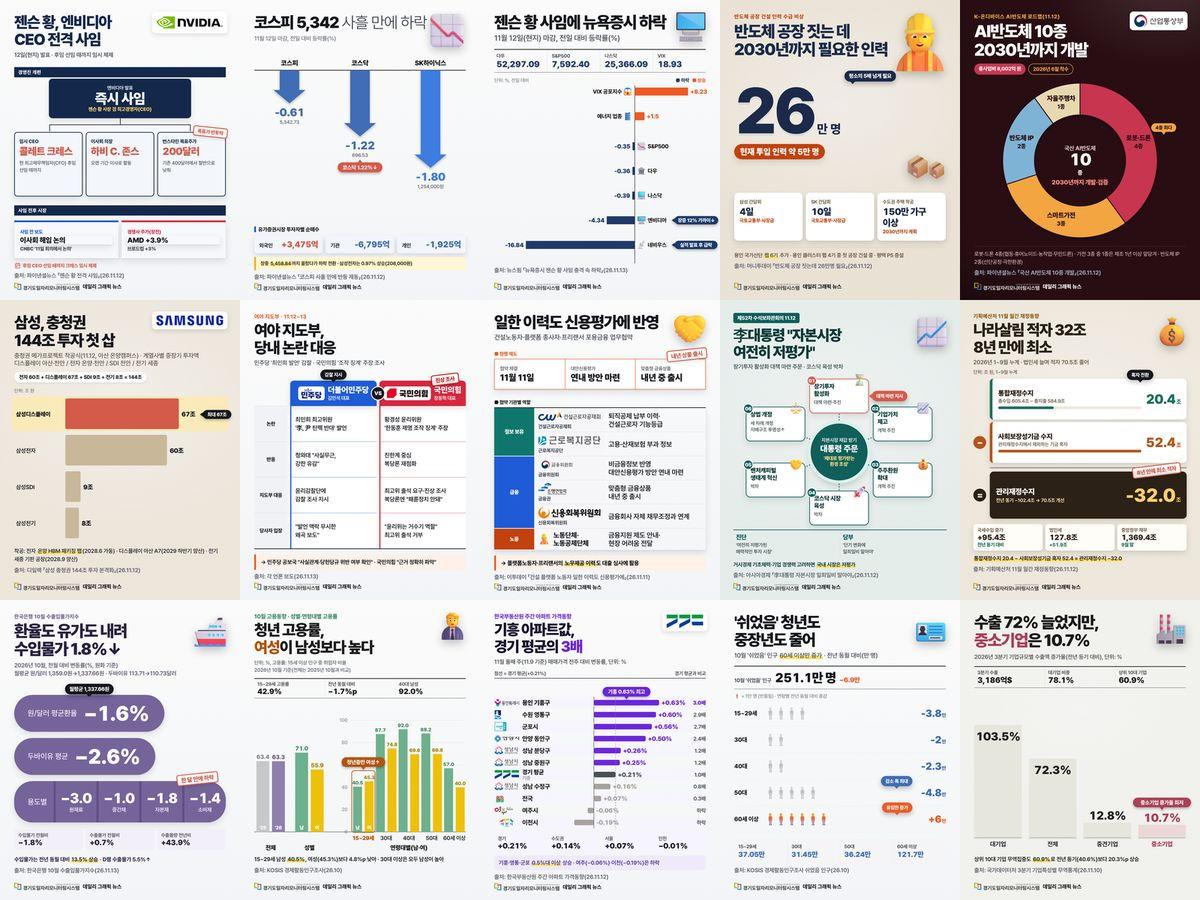
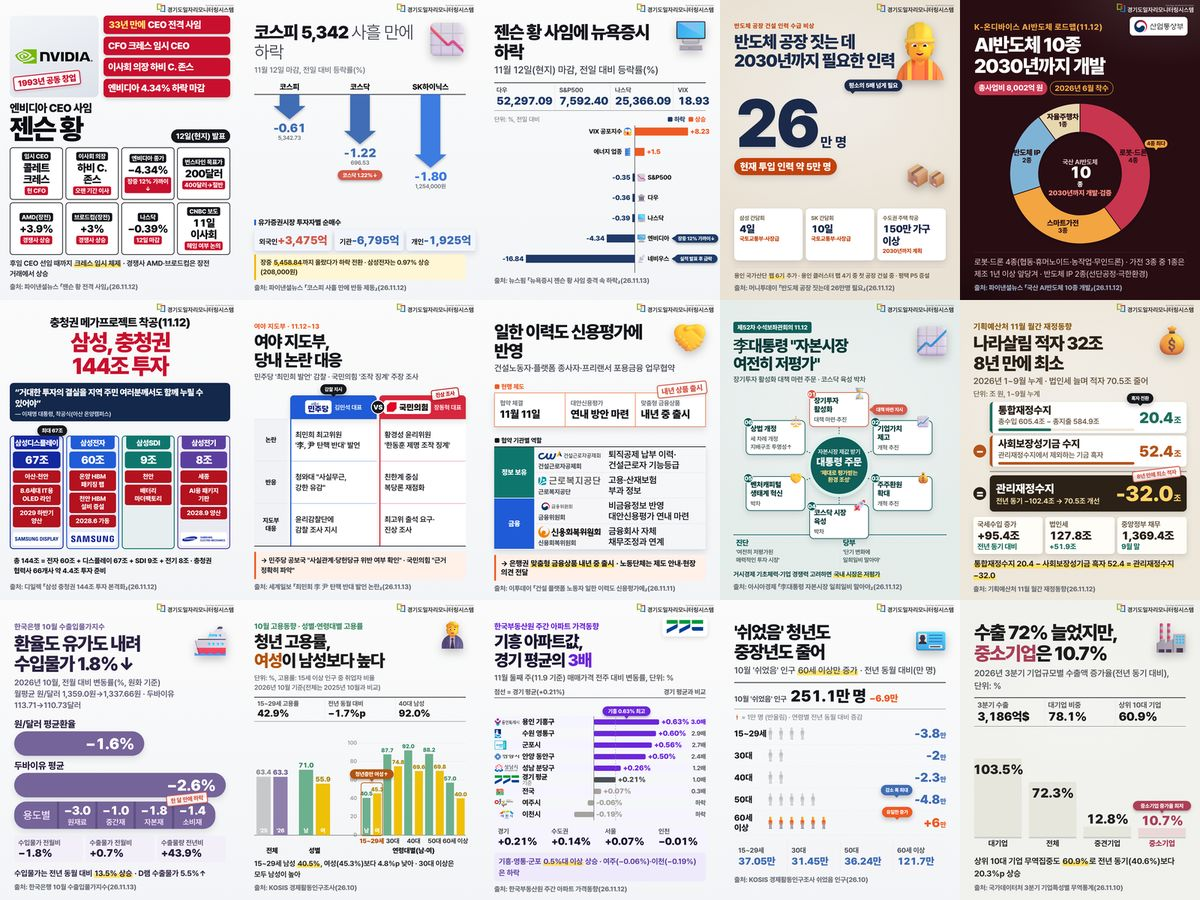
261113 웹페이지 수정: 카드 클릭 확대 기능, 카드별 이미지·미리보기 갱신
Claude-Session: https://claude.ai/code/session_015uJhCPYxhXu45H4AYmxR3L

diff --git a/daily/2026-11-13/index.html b/daily/2026-11-13/index.html
@@ -1,21 +1,21 @@
 <!doctype html><html lang="ko"><head><meta charset="utf-8"><meta name="viewport" content="width=device-width,initial-scale=1"><title>11.13.(금) 데일리 그래픽뉴스 | 경기도일자리모니터링시스템</title>
 <meta property="og:title" content="11.13.(금) 데일리 그래픽뉴스 | 경기도일자리모니터링시스템"><meta property="og:description" content="오늘의 일자리·경제 뉴스·통계 15건, 제목과 출처를 확인하세요"><meta property="og:image" content="https://gjfdata.github.io/daily/2026-11-13/preview.jpg"><meta property="og:url" content="https://gjfdata.github.io/daily/2026-11-13/"><meta property="og:type" content="website"><meta name="description" content="오늘의 일자리·경제 뉴스·통계 15건, 제목과 출처를 확인하세요">
 <link rel="stylesheet" href="https://cdn.jsdelivr.net/gh/orioncactus/pretendard@v1.3.9/dist/web/static/pretendard.css"><link rel="stylesheet" href="../../assets/style.css"></head><body><div class="w"><img class="ci" src="../../assets/ci.png" alt="경기도일자리모니터링시스템"><h1>11.13.(금) 데일리 그래픽뉴스</h1><p class="sub">오늘의 일자리·경제 뉴스·통계 15건</p>
-<img class="pv" src="preview.jpg" alt="11.13 데일리 그래픽뉴스 미리보기"><ol>
-<li><span class="n">01</span><div><b>젠슨 황, 엔비디아 CEO 전격 사임</b><span class="s"><a href="https://www.fnnews.com/news/202611122300110225" target="_blank" rel="noopener">파이낸셜뉴스 「젠슨 황 전격 사임」(26.11.12)</a></span></div></li>
-<li><span class="n">02</span><div><b>코스피 5,342.73, 사흘 만에 하락</b><span class="s"><a href="https://www.fnnews.com/news/202611121539360346" target="_blank" rel="noopener">파이낸셜뉴스 「코스피 사흘 만에 반등 제동」(26.11.12)</a></span></div></li>
-<li><span class="n">03</span><div><b>젠슨 황 사임에 뉴욕증시 하락, 엔비디아 4.34%↓</b><span class="s"><a href="https://www.newspim.com/news/view/20261113000019" target="_blank" rel="noopener">뉴스핌 「뉴욕증시 젠슨 황 사임 충격 속 하락」(26.11.13)</a></span></div></li>
-<li><span class="n">04</span><div><b>반도체 공장 건설에 2030년까지 26만 명 필요</b><span class="s"><a href="https://news.nate.com/view/20261112n29123" target="_blank" rel="noopener">머니투데이 「반도체 공장 짓는데 26만명 필요」(26.11.12)</a></span></div></li>
-<li><span class="n">05</span><div><b>국산 AI반도체 10종 2030년까지 개발(8,002억 원)</b><span class="s"><a href="https://www.fnnews.com/news/202611121345227008" target="_blank" rel="noopener">파이낸셜뉴스 「국산 AI반도체 10종 개발」(26.11.12)</a></span></div></li>
-<li><span class="n">06</span><div><b>삼성, 충청권 144조 투자 첫 삽</b><span class="s"><a href="https://www.thelec.kr/news/articleView.html?idxno=65339" target="_blank" rel="noopener">디일렉 「삼성 충청권 144조 투자 본격화」(26.11.12)</a></span></div></li>
-<li><span class="n">07</span><div><b>여야 지도부, 당내 논란 대응</b><span class="s">각 언론 보도(26.11.13)<br>· <a href="https://www.segye.com/newsView/20261112519590" target="_blank" rel="noopener">더불어민주당: 세계일보 「최민희 李 尹 탄핵 반대 발언 논란 김민석 감찰 지시」(26.11.13)</a><br>· <a href="https://news.nate.com/view/20261113n01091" target="_blank" rel="noopener">국민의힘: 동아일보 「장동혁 한동훈 복당론에 패륜정치 안돼」(26.11.13)</a></span></div></li>
-<li><span class="n">08</span><div><b>건설·플랫폼 노동자 일한 이력도 신용평가에 반영</b><span class="s"><a href="https://www.etoday.co.kr/news/view/2646490" target="_blank" rel="noopener">이투데이 「건설 플랫폼 노동자 일한 이력도 신용평가에」(26.11.11)</a></span></div></li>
-<li><span class="n">09</span><div><b>李대통령 &quot;자본시장 여전히 저평가&quot;, 장기투자 대책 주문</b><span class="s"><a href="https://view.asiae.co.kr/article/2026111215414263430" target="_blank" rel="noopener">아시아경제 「李대통령 자본시장 일희일비 말아야」(26.11.12)</a></span></div></li>
-<li><span class="n">10</span><div><b>1~9월 나라살림 적자 32조, 8년 만에 최소</b><span class="s"><a href="https://news.mtn.co.kr/article/2026111211283746559" target="_blank" rel="noopener">기획예산처 11월 월간 재정동향(26.11.12)</a></span></div></li>
-<li><span class="n">11</span><div><b>환율·유가 내려 10월 수입물가 1.8%↓</b><span class="s"><a href="https://view.asiae.co.kr/article/2026111306105002008" target="_blank" rel="noopener">한국은행 10월 수출입물가지수(26.11.13)</a></span></div></li>
-<li><span class="n">12</span><div><b>청년(15~29세) 고용률, 여성이 남성보다 높다</b><span class="s"><a href="https://kosis.kr/statHtml/statHtml.do?orgId=101&amp;tblId=DT_1DA7012S" target="_blank" rel="noopener">KOSIS 경제활동인구조사(26.10)</a></span></div></li>
-<li><span class="n">13</span><div><b>경기 아파트값 0.21%↑, 기흥은 경기 평균의 3배</b><span class="s"><a href="https://www.arunews.com/news/articleView.html?idxno=69466" target="_blank" rel="noopener">한국부동산원 주간 아파트 가격동향(26.11.12)</a></span></div></li>
-<li><span class="n">14</span><div><b>&#x27;쉬었음&#x27; 인구 251.1만 명, 60세 이상만 증가</b><span class="s"><a href="https://kosis.kr/statHtml/statHtml.do?orgId=101&amp;tblId=DT_1DA7147S" target="_blank" rel="noopener">KOSIS 경제활동인구조사 쉬었음 인구(26.10)</a></span></div></li>
-<li><span class="n">15</span><div><b>3분기 수출 72.3%↑, 중소기업은 10.7%</b><span class="s"><a href="https://www.etoday.co.kr/news/view/2646153" target="_blank" rel="noopener">국가데이터처 3분기 기업특성별 무역통계(26.11.10)</a></span></div></li>
+<div class="grid"><button data-card="cards/01.jpg" aria-label="01번 카드 크게 보기"><img src="cards/01.jpg" alt="01번 카드: 젠슨 황, 엔비디아 CEO 전격 사임" loading="lazy"><span>01</span></button><button data-card="cards/02.jpg" aria-label="02번 카드 크게 보기"><img src="cards/02.jpg" alt="02번 카드: 코스피 5,342.73, 사흘 만에 하락" loading="lazy"><span>02</span></button><button data-card="cards/03.jpg" aria-label="03번 카드 크게 보기"><img src="cards/03.jpg" alt="03번 카드: 젠슨 황 사임에 뉴욕증시 하락, 엔비디아 4.34%↓" loading="lazy"><span>03</span></button><button data-card="cards/04.jpg" aria-label="04번 카드 크게 보기"><img src="cards/04.jpg" alt="04번 카드: 반도체 공장 건설에 2030년까지 26만 명 필요" loading="lazy"><span>04</span></button><button data-card="cards/05.jpg" aria-label="05번 카드 크게 보기"><img src="cards/05.jpg" alt="05번 카드: 국산 AI반도체 10종 2030년까지 개발(8,002억 원)" loading="lazy"><span>05</span></button><button data-card="cards/06.jpg" aria-label="06번 카드 크게 보기"><img src="cards/06.jpg" alt="06번 카드: 삼성, 충청권 144조 투자" loading="lazy"><span>06</span></button><button data-card="cards/07.jpg" aria-label="07번 카드 크게 보기"><img src="cards/07.jpg" alt="07번 카드: 여야 지도부, 당내 논란 대응" loading="lazy"><span>07</span></button><button data-card="cards/08.jpg" aria-label="08번 카드 크게 보기"><img src="cards/08.jpg" alt="08번 카드: 건설·플랫폼 노동자 일한 이력도 신용평가에 반영" loading="lazy"><span>08</span></button><button data-card="cards/09.jpg" aria-label="09번 카드 크게 보기"><img src="cards/09.jpg" alt="09번 카드: 李대통령 &quot;자본시장 여전히 저평가&quot;, 장기투자 대책 주문" loading="lazy"><span>09</span></button><button data-card="cards/10.jpg" aria-label="10번 카드 크게 보기"><img src="cards/10.jpg" alt="10번 카드: 1~9월 나라살림 적자 32조, 8년 만에 최소" loading="lazy"><span>10</span></button><button data-card="cards/11.jpg" aria-label="11번 카드 크게 보기"><img src="cards/11.jpg" alt="11번 카드: 환율·유가 내려 10월 수입물가 1.8%↓" loading="lazy"><span>11</span></button><button data-card="cards/12.jpg" aria-label="12번 카드 크게 보기"><img src="cards/12.jpg" alt="12번 카드: 청년(15~29세) 고용률, 여성이 남성보다 높다" loading="lazy"><span>12</span></button><button data-card="cards/13.jpg" aria-label="13번 카드 크게 보기"><img src="cards/13.jpg" alt="13번 카드: 경기 아파트값 0.21%↑, 기흥은 경기 평균의 3배" loading="lazy"><span>13</span></button><button data-card="cards/14.jpg" aria-label="14번 카드 크게 보기"><img src="cards/14.jpg" alt="14번 카드: &#x27;쉬었음&#x27; 인구 251.1만 명, 60세 이상만 증가" loading="lazy"><span>14</span></button><button data-card="cards/15.jpg" aria-label="15번 카드 크게 보기"><img src="cards/15.jpg" alt="15번 카드: 3분기 수출 72.3%↑, 중소기업은 10.7%" loading="lazy"><span>15</span></button></div><p class="hint">카드를 누르면 한 장씩 크게 볼 수 있습니다.</p><ol>
+<li><span class="n"><button data-card="cards/01.jpg" aria-label="01번 카드 크게 보기">01</button></span><div><b>젠슨 황, 엔비디아 CEO 전격 사임</b><span class="s"><a href="https://www.fnnews.com/news/202611122300110225" target="_blank" rel="noopener">파이낸셜뉴스 「젠슨 황 전격 사임」(26.11.12)</a></span></div></li>
+<li><span class="n"><button data-card="cards/02.jpg" aria-label="02번 카드 크게 보기">02</button></span><div><b>코스피 5,342.73, 사흘 만에 하락</b><span class="s"><a href="https://www.fnnews.com/news/202611121539360346" target="_blank" rel="noopener">파이낸셜뉴스 「코스피 사흘 만에 반등 제동」(26.11.12)</a></span></div></li>
+<li><span class="n"><button data-card="cards/03.jpg" aria-label="03번 카드 크게 보기">03</button></span><div><b>젠슨 황 사임에 뉴욕증시 하락, 엔비디아 4.34%↓</b><span class="s"><a href="https://www.newspim.com/news/view/20261113000019" target="_blank" rel="noopener">뉴스핌 「뉴욕증시 젠슨 황 사임 충격 속 하락」(26.11.13)</a></span></div></li>
+<li><span class="n"><button data-card="cards/04.jpg" aria-label="04번 카드 크게 보기">04</button></span><div><b>반도체 공장 건설에 2030년까지 26만 명 필요</b><span class="s"><a href="https://news.nate.com/view/20261112n29123" target="_blank" rel="noopener">머니투데이 「반도체 공장 짓는데 26만명 필요」(26.11.12)</a></span></div></li>
+<li><span class="n"><button data-card="cards/05.jpg" aria-label="05번 카드 크게 보기">05</button></span><div><b>국산 AI반도체 10종 2030년까지 개발(8,002억 원)</b><span class="s"><a href="https://www.fnnews.com/news/202611121345227008" target="_blank" rel="noopener">파이낸셜뉴스 「국산 AI반도체 10종 개발」(26.11.12)</a></span></div></li>
+<li><span class="n"><button data-card="cards/06.jpg" aria-label="06번 카드 크게 보기">06</button></span><div><b>삼성, 충청권 144조 투자</b><span class="s"><a href="https://www.thelec.kr/news/articleView.html?idxno=65339" target="_blank" rel="noopener">디일렉 「삼성 충청권 144조 투자 본격화」(26.11.12)</a></span></div></li>
+<li><span class="n"><button data-card="cards/07.jpg" aria-label="07번 카드 크게 보기">07</button></span><div><b>여야 지도부, 당내 논란 대응</b><span class="s">세계일보 「최민희 李 尹 탄핵 반대 발언 논란」(26.11.13)<br>· <a href="https://www.segye.com/newsView/20261112519590" target="_blank" rel="noopener">더불어민주당: 세계일보 「최민희 李 尹 탄핵 반대 발언 논란 김민석 감찰 지시」(26.11.13)</a><br>· <a href="https://news.nate.com/view/20261113n01091" target="_blank" rel="noopener">국민의힘: 동아일보 「장동혁 한동훈 복당론에 패륜정치 안돼」(26.11.13)</a></span></div></li>
+<li><span class="n"><button data-card="cards/08.jpg" aria-label="08번 카드 크게 보기">08</button></span><div><b>건설·플랫폼 노동자 일한 이력도 신용평가에 반영</b><span class="s"><a href="https://www.etoday.co.kr/news/view/2646490" target="_blank" rel="noopener">이투데이 「건설 플랫폼 노동자 일한 이력도 신용평가에」(26.11.11)</a></span></div></li>
+<li><span class="n"><button data-card="cards/09.jpg" aria-label="09번 카드 크게 보기">09</button></span><div><b>李대통령 &quot;자본시장 여전히 저평가&quot;, 장기투자 대책 주문</b><span class="s"><a href="https://view.asiae.co.kr/article/2026111215414263430" target="_blank" rel="noopener">아시아경제 「李대통령 자본시장 일희일비 말아야」(26.11.12)</a></span></div></li>
+<li><span class="n"><button data-card="cards/10.jpg" aria-label="10번 카드 크게 보기">10</button></span><div><b>1~9월 나라살림 적자 32조, 8년 만에 최소</b><span class="s"><a href="https://news.mtn.co.kr/article/2026111211283746559" target="_blank" rel="noopener">기획예산처 11월 월간 재정동향(26.11.12)</a></span></div></li>
+<li><span class="n"><button data-card="cards/11.jpg" aria-label="11번 카드 크게 보기">11</button></span><div><b>환율·유가 내려 10월 수입물가 1.8%↓</b><span class="s"><a href="https://view.asiae.co.kr/article/2026111306105002008" target="_blank" rel="noopener">한국은행 10월 수출입물가지수(26.11.13)</a></span></div></li>
+<li><span class="n"><button data-card="cards/12.jpg" aria-label="12번 카드 크게 보기">12</button></span><div><b>청년(15~29세) 고용률, 여성이 남성보다 높다</b><span class="s"><a href="https://kosis.kr/statHtml/statHtml.do?orgId=101&amp;tblId=DT_1DA7012S" target="_blank" rel="noopener">KOSIS 경제활동인구조사(26.10)</a></span></div></li>
+<li><span class="n"><button data-card="cards/13.jpg" aria-label="13번 카드 크게 보기">13</button></span><div><b>경기 아파트값 0.21%↑, 기흥은 경기 평균의 3배</b><span class="s"><a href="https://www.arunews.com/news/articleView.html?idxno=69466" target="_blank" rel="noopener">한국부동산원 주간 아파트 가격동향(26.11.12)</a></span></div></li>
+<li><span class="n"><button data-card="cards/14.jpg" aria-label="14번 카드 크게 보기">14</button></span><div><b>&#x27;쉬었음&#x27; 인구 251.1만 명, 60세 이상만 증가</b><span class="s"><a href="https://kosis.kr/statHtml/statHtml.do?orgId=101&amp;tblId=DT_1DA7147S" target="_blank" rel="noopener">KOSIS 경제활동인구조사 쉬었음 인구(26.10)</a></span></div></li>
+<li><span class="n"><button data-card="cards/15.jpg" aria-label="15번 카드 크게 보기">15</button></span><div><b>3분기 수출 72.3%↑, 중소기업은 10.7%</b><span class="s"><a href="https://www.etoday.co.kr/news/view/2646153" target="_blank" rel="noopener">국가데이터처 3분기 기업특성별 무역통계(26.11.10)</a></span></div></li>
 </ol><div class="cta"><div>경기도 31개 시군 일자리 통계는 경기도일자리모니터링시스템에서 확인하세요</div><a class="btn" href="https://stats.gjf.or.kr/open/dashboard/dashboard.do?utm_source=dailynews&amp;utm_medium=webpage&amp;utm_campaign=261113" target="_blank" rel="noopener">stats.gjf.or.kr 바로가기</a></div>
-<p class="note">본 카드뉴스는 AI를 활용해 제작하고 경기도일자리재단 데이터팀이 검수하였습니다. 수치 인용 시 원문을 확인해 주시기 바랍니다.</p><p class="note"><a class="list" href="../../">지난 데일리 그래픽뉴스 목록</a></p></div></body></html>
+<p class="note">본 카드뉴스는 AI를 활용해 제작하고 경기도일자리재단 데이터팀이 검수하였습니다. 수치 인용 시 원문을 확인해 주시기 바랍니다.</p><p class="note"><a class="list" href="../../">지난 데일리 그래픽뉴스 목록</a></p></div><script src="../../assets/lightbox.js" defer></script></body></html>

diff --git a/assets/style.css b/assets/style.css
@@ -12,3 +12,12 @@ ol{list-style:none;padding:0;margin:20px 0}li{display:flex;gap:12px;background:v
 @media(prefers-color-scheme:dark){.btn{color:#101217}}
 .note{font-size:12.5px;color:var(--mut);margin-top:16px}a.list{color:var(--ac)}
 ul.items{list-style:disc;margin:8px 0 0;padding-left:18px;font-size:13px;color:var(--mut)}ul.items li{display:list-item;background:none;border:0;border-radius:0;padding:2px 0;margin:0}ul.items a{color:var(--ac);text-decoration:underline;text-underline-offset:2px}
+.grid{display:grid;grid-template-columns:repeat(3,1fr);gap:8px;margin-top:4px}@media(min-width:560px){.grid{grid-template-columns:repeat(5,1fr)}}
+.grid button{padding:0;border:1px solid var(--ln);border-radius:8px;overflow:hidden;background:var(--card);cursor:zoom-in;position:relative}
+.grid img{width:100%;display:block;aspect-ratio:4/5;object-fit:cover}.grid span{position:absolute;left:4px;top:4px;background:rgba(0,0,0,.6);color:#fff;font-size:11px;font-weight:700;border-radius:4px;padding:0 5px}
+.hint{font-size:12.5px;color:var(--mut);margin:6px 0 0}.n button{all:unset;cursor:zoom-in;font-weight:800;color:var(--ac)}
+.lb{position:fixed;inset:0;background:rgba(0,0,0,.88);display:none;align-items:center;justify-content:center;z-index:99;touch-action:pan-y}
+.lb.on{display:flex}.lb img{max-width:min(96vw,720px);max-height:88vh;border-radius:8px;box-shadow:0 10px 40px rgba(0,0,0,.5)}
+.lb .x,.lb .pv2,.lb .nx{position:absolute;background:rgba(255,255,255,.14);color:#fff;border:0;border-radius:999px;width:46px;height:46px;font-size:24px;cursor:pointer}
+.lb .x{top:14px;right:14px}.lb .pv2{left:10px;top:50%;transform:translateY(-50%)}.lb .nx{right:10px;top:50%;transform:translateY(-50%)}
+.lb .ct{position:absolute;bottom:14px;left:0;right:0;text-align:center;color:#ddd;font-size:14px}

diff --git a/assets/lightbox.js b/assets/lightbox.js
@@ -1,0 +1,13 @@
+(function(){var t=[].slice.call(document.querySelectorAll('[data-card]'));if(!t.length)return;
+var srcs=[],seen={};t.forEach(function(b){var s=b.getAttribute('data-card');if(!seen[s]){seen[s]=1;srcs.push(s)}});
+var lb=document.createElement('div');lb.className='lb';lb.setAttribute('role','dialog');lb.setAttribute('aria-modal','true');
+lb.innerHTML='<img alt=""><button class="x" aria-label="닫기">×</button><button class="pv2" aria-label="이전">‹</button><button class="nx" aria-label="다음">›</button><div class="ct"></div>';
+document.body.appendChild(lb);var im=lb.querySelector('img'),ct=lb.querySelector('.ct'),i=0,x0=null;
+function show(k){i=(k+srcs.length)%srcs.length;im.src=srcs[i];im.alt=(i+1)+'번 카드';ct.textContent=(i+1)+' / '+srcs.length;lb.classList.add('on')}
+function hide(){lb.classList.remove('on')}
+t.forEach(function(b){b.addEventListener('click',function(e){e.preventDefault();show(srcs.indexOf(b.getAttribute('data-card')))})});
+lb.querySelector('.x').onclick=hide;lb.querySelector('.pv2').onclick=function(e){e.stopPropagation();show(i-1)};lb.querySelector('.nx').onclick=function(e){e.stopPropagation();show(i+1)};
+lb.addEventListener('click',function(e){if(e.target===lb)hide()});
+document.addEventListener('keydown',function(e){if(!lb.classList.contains('on'))return;if(e.key==='Escape')hide();if(e.key==='ArrowLeft')show(i-1);if(e.key==='ArrowRight')show(i+1)});
+lb.addEventListener('touchstart',function(e){x0=e.touches[0].clientX},{passive:true});
+lb.addEventListener('touchend',function(e){if(x0===null)return;var d=e.changedTouches[0].clientX-x0;if(Math.abs(d)>40)show(d<0?i+1:i-1);x0=null});})();
